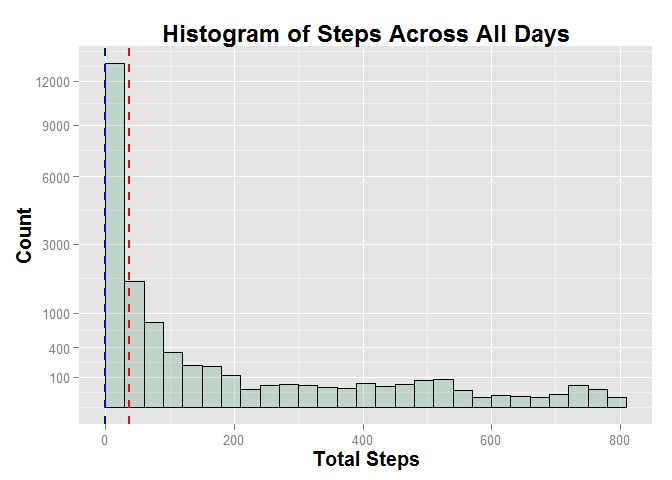
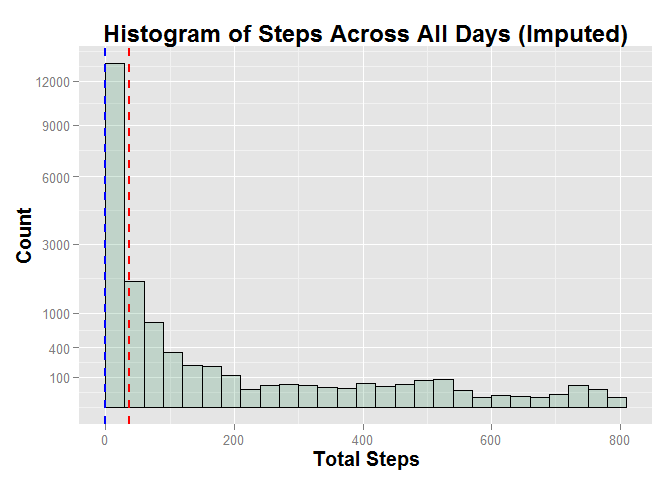
Final, final commit.

Changed region(s): [[0.1562, 0.0312, 0.9375, 0.0938]]

diff --git a/PA1_template.html b/PA1_template.html
@@ -184,14 +184,14 @@ print(g)</code></pre>
                 color=&quot;blue&quot;,
                 linetype=&quot;dashed&quot;,
                 size=1) +
-     labs(title=&quot;Histogram of Steps Across All Days&quot;,
+     labs(title=&quot;Histogram of Steps Across All Days (Imputed)&quot;,
           x=&quot;Total Steps&quot;,
           y=&quot;Count&quot;) +
      theme(title=element_text(face=&quot;bold&quot;,size=rel(1.25)),
            strip.text=element_text(face=&quot;bold&quot;,size=rel(1.0)),
            legend.position=&quot;none&quot;)
 print(g)</code></pre>
[2 lines of base64/hex data omitted]
 <p>Along with the new <strong>mean</strong> and <strong>median</strong> values.</p>
 <pre class="r"><code>mean(activity$imputedSteps)</code></pre>
 <pre><code>## [1] 37.38</code></pre>

diff --git a/PA1_template.md b/PA1_template.md
@@ -283,7 +283,7 @@ g <- ggplot(activity, aes(x=imputedSteps)) +
                 color="blue",
                 linetype="dashed",
                 size=1) +
-     labs(title="Histogram of Steps Across All Days",
+     labs(title="Histogram of Steps Across All Days (Imputed)",
           x="Total Steps",
           y="Count") +
      theme(title=element_text(face="bold",size=rel(1.25)),
